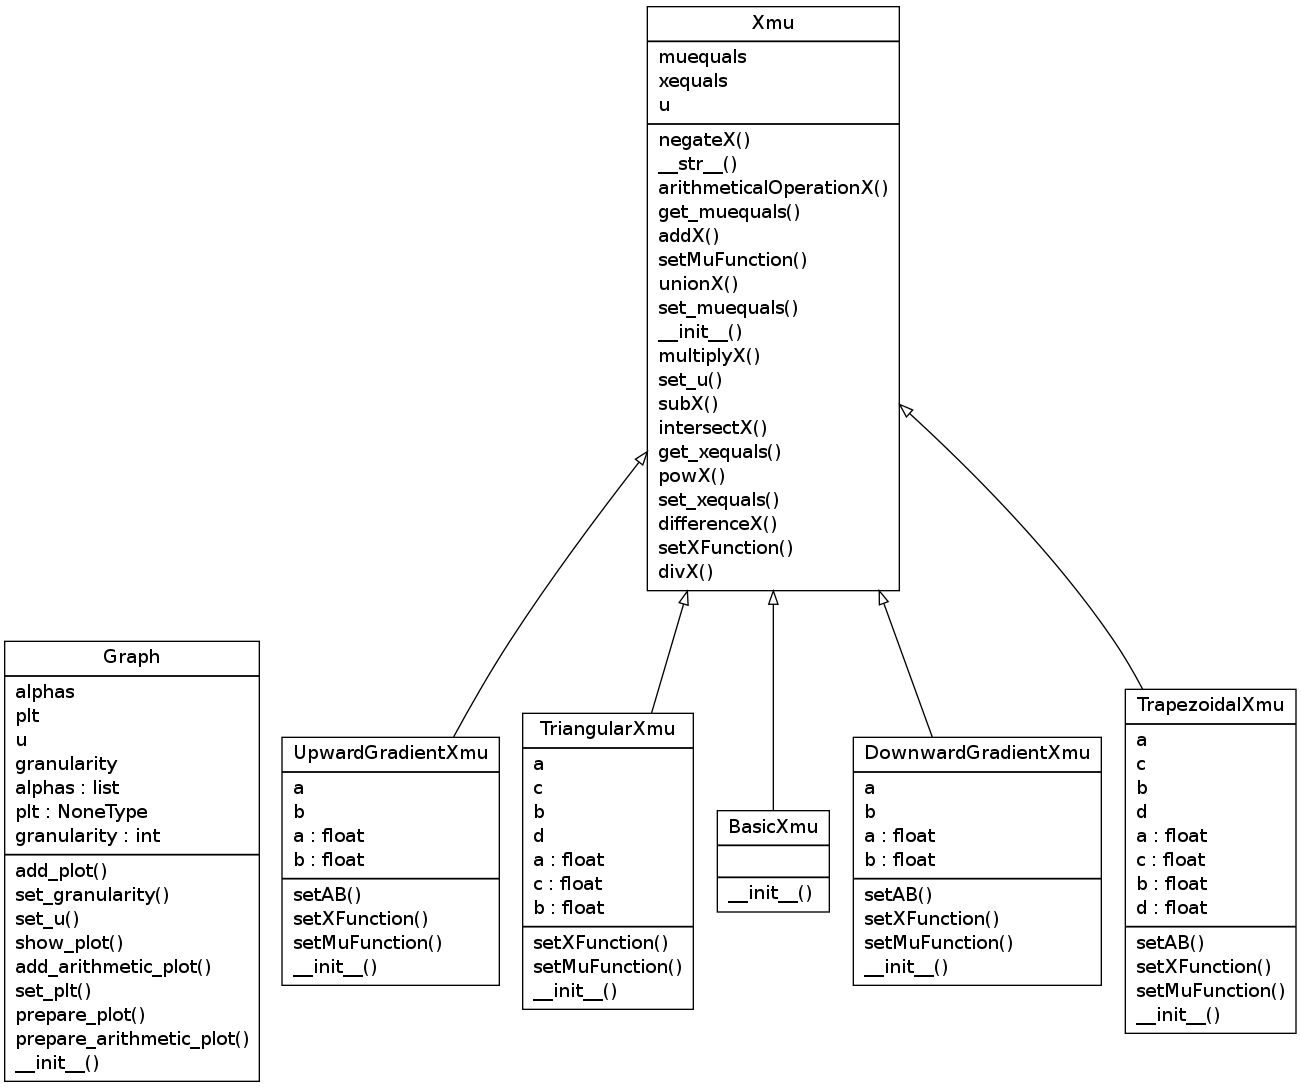
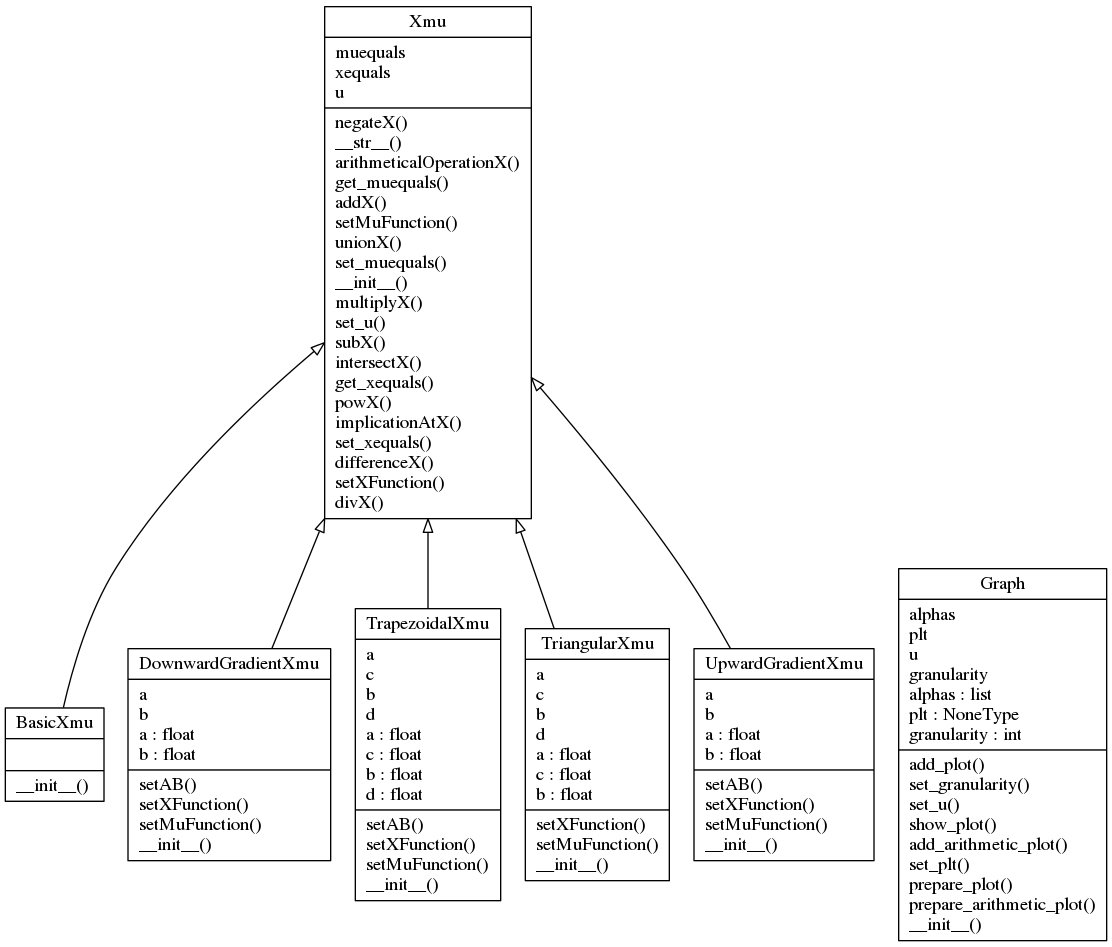
Added experiments with implication to Xmu class. Also made a few adjustments here and there. Finally, have also added details about the online calculator to the readme.

diff --git a/xmu.py b/xmu.py
@@ -123,6 +123,38 @@ class Xmu(object):
 		result = self.u - self.get_xequals()
 		return BasicXmu(self.u, result)
 	
+	def implicationAtX(self, i2, X, implication_type="lukasiewicz"):
+		""" 
+		@IMPORTANT	This is not an X-mu operation, and is very experimental.
+		@description Performs an implication at a certain point (alpha) along the X dimension.
+		@warning	Only works on Xmu types which have a muequals set!
+		@note	Fuzzy implications come from "A new approach in Zadeh’s classification: fuzzy implication through statistic implication " ( http://math.unipa.it/~grim/nafips_gras_spagnolo_232 )
+		@todo	Test more extensively, and also find an example to work on. Might need a lot more work. Could be completely wrong!
+		@todo	More research and development required - e.g. implication defined by Zadeh, and also Mamdani
+		@todo	More to implement via: "Fuzzy power sets and fuzzy implication operators" ( http://www.sciencedirect.com/science/article/pii/0165011480900603 )
+		@return 0.0 (representing false), or 1.0 (representing true)
+		"""
+		mu_a = self.get_muequals().subs(self.x, float(X))
+		mu_b = i2.get_muequals().subs(self.x, float(X))	
+			
+		if implication_type is "lukasiewicz":
+			result = min(	(1.0 - mu_a + mu_b), 	1.0		)
+			return result
+		elif implication_type is "reichenbach":
+			result = 1.0 - mu_a + mu_a * mu_b
+			return result
+		elif implication_type is "kleenedienes":
+			result = max(1.0 - mu_a, mu_b)
+			return result
+		elif implication_type is "binary":
+			if (mu_a <= mu_b):
+				return 1.0
+			else:
+				return 0.0
+		else:
+			return 0.0
+	
+	
 	def arithmeticalOperationX(self, i2, alpha, operation):
 		""" Wrapper class for performing Fuzzy Arithmetic on X-mu Functions using SymPy/MPI. Primarily used as a private class, but could be used publicly.
 		@param	i2	the target sympy formula.
@@ -478,13 +510,14 @@ class Graph:
 		self.granularity = granularity
 		self.alphas = [float(i)/float(self.granularity) for i in range(0, granularity+1)]
 		
-	def prepare_plot(self, plot, plot_title, ylim_top=None):
+	def prepare_plot(self, plot, plot_title, ylim_top=None, colour=None):
 		""" Sets up initial information for a plot.
 		@param	plot	an Xmu instance to plot
 		@param	plot_title	the title of the Xmu object
 		@param	ylim_top	the maximum limit of the y axis
+		@param	colour	the colour of the visualisation of this Xmu object
 		"""
-		self.add_plot(plot, plot_title)
+		self.add_plot(plot, plot_title, colour=colour)
 		self.plt.xlabel('mu')
 		self.plt.xlim(0.0, 1.0)
 		if ylim_top == None:

diff --git a/README.md b/README.md
@@ -82,3 +82,12 @@ Here follows a basic example of use:
 	graph.add_plot(large, u"Large")
 	graph.show_plot()
 
+## Showcasing the X-mu Library: The Online X-mu Calculator
+
+The X-mu Calculator is now online and is available at:
+http://xmu.pythonanywhere.com/
+
+The calculator allows the user to show graphs and also perform union, intersection and set difference. The online calculator (currently) only works over a continuous domain of real numbers, and using two membership functions (either L-Function, R-Function, Trapezoidal or Triangular).
+
+It is python based, uses the X-mu Library, and is built using the Django web framework.
+
